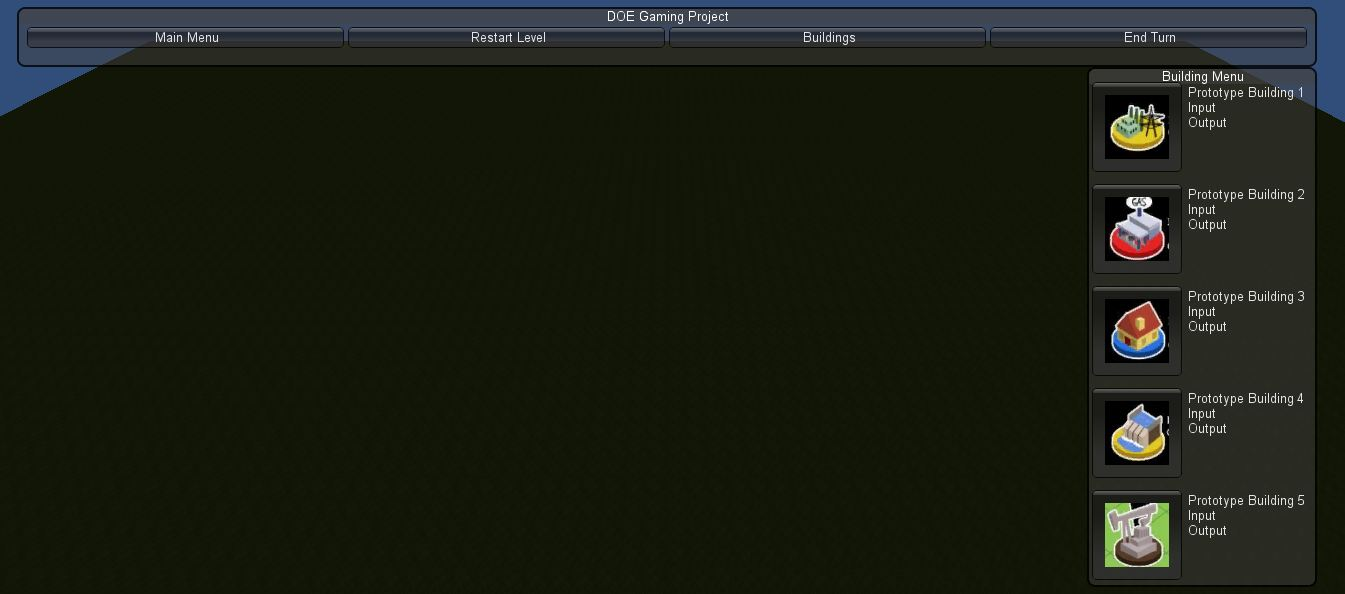
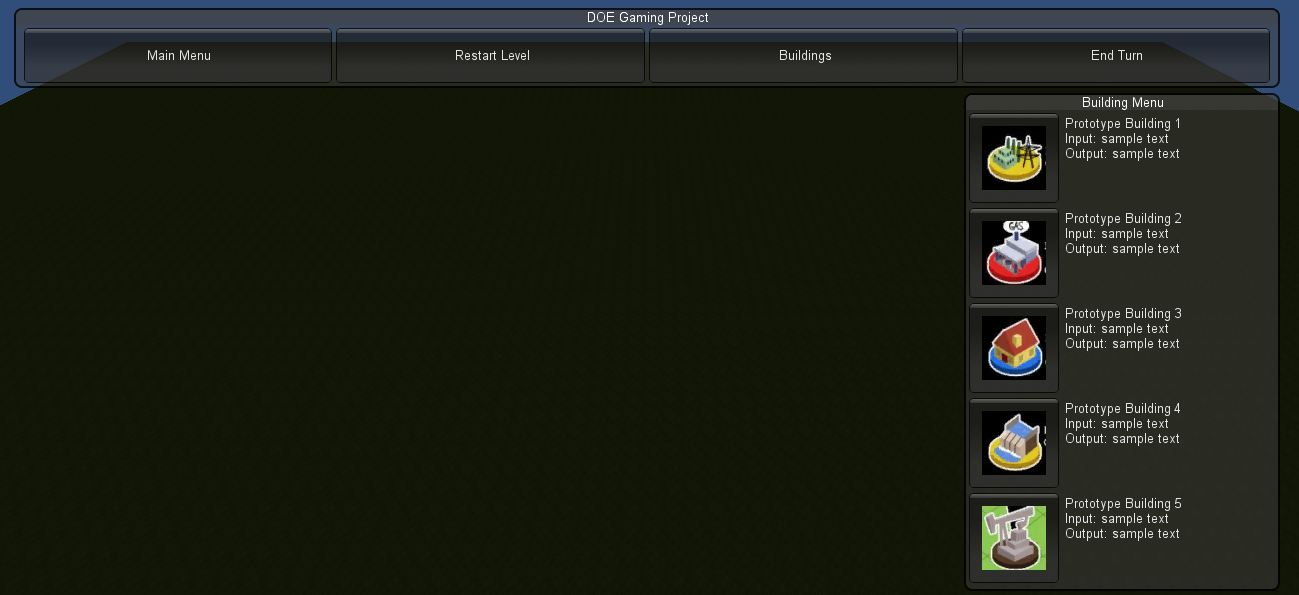
Updating toolBar.js script

Changed region(s): [[0.0, 0.0, 1.0, 1.0]]

diff --git a/Assets/Scripts/GUI Scripts/ToolBar.js b/Assets/Scripts/GUI Scripts/ToolBar.js
@@ -4,40 +4,51 @@ ToolBar.js
 Description: Sets up toolbar above along with building menu. 
 Used mouse click events for now which will be changed to 
 touch while deploying for mobile device.
+Tip: Click on Building menu button to toggle visibility of 
+building menu window.
 
 Author: Ajinkya Waghulde
 **********************************************************/
 
 
 //Variables
-var toolbarInt : int = -1;
-var buildingMenuInt : int = -1;
+private var toolbarInt : int = -1;
+private var buildingMenuInt : int = -1;
 var btnTexture1 : Texture; 
 var btnTexture2 : Texture;
 var btnTexture3 : Texture; 
 var btnTexture4 : Texture;
 var btnTexture5 : Texture; 
 
+private var showWindow : boolean = false;
+
 //need to replace text with GUI texture (if needed)
-var toolbarStrings : String[] = ["Main Menu", "Restart Level", "Buildings", "End Turn"];
-var buildingMenuStrings : String[] = ["Building1", "Building2", "Building3", "Building4", "Building5"];
+private var toolbarStrings : String[] = ["Main Menu", "Restart Level", "Buildings", "End Turn"];
+private var buildingMenuStrings : String[] = ["Building1", "Building2", "Building3", "Building4", "Building5"];
 
 //set for PC screen, need to change for iphone
-var toolbarWindow : Rect = Rect (30, 10, 1300, 60);
-var buildingMenuWindow : Rect = Rect (50, 100, 120, 500);
+private var toolbarWindow : Rect = Rect (50, 10, Screen.width - 100, 80);
+private var buildingMenuWindow : Rect //= Rect (0, 10, 250, 520);
+										= Rect (50 + (3*toolbarWindow.width/4), 
+											    15 + toolbarWindow.height, 
+											    toolbarWindow.width/4, 
+											    Screen.height - 100);
 
 function OnGUI() 
 {
 
+	//showWindow = false;
+
 	toolbarWindow = GUI.Window (0, toolbarWindow, ToolbarWindowFunc, "DOE Gaming Project");
-	buildingMenuWindow = GUI.Window (1, buildingMenuWindow, BuildingMenuFunc, "Building Menu");
 	
+	if(showWindow)
+		buildingMenuWindow = GUI.Window (1, buildingMenuWindow, BuildingMenuFunc, "Building Menu");
 	
 	if (!btnTexture1 || !btnTexture2 || !btnTexture3 || !btnTexture4 || !btnTexture5) {
         Debug.LogError("Missing button texture !");
         return;
     }
-		
+        						
 	switch(toolbarInt)
 	{
 		//Main menu
@@ -55,6 +66,7 @@ function OnGUI()
 		//Buildings menu
 		case 2:
 		Debug.Log("building menu");		
+		ToggleBuildingWindowVisibility();
 		toolbarInt = -1;
 		break;
 		
@@ -69,13 +81,10 @@ function OnGUI()
 }
 
 //Note: window id is 0 for toolbar
-function ToolbarWindowFunc (windowID : int) {
-        
-        toolbarInt = GUILayout.Toolbar (//new Rect(5, 20, toolbarWindow.width  - 10, toolbarWindow.height - 25), 
-        								toolbarInt, 
-        								toolbarStrings);
-        
-
+function ToolbarWindowFunc (windowID : int) {              
+        toolbarInt = GUI.Toolbar (Rect (10, 20, toolbarWindow.width - 20, toolbarWindow.height - 25), 
+        						  toolbarInt, 
+        						  toolbarStrings);
 }
 
 //Note: window id is 1 for building menu
@@ -86,20 +95,28 @@ function BuildingMenuFunc (windowID : int) {
         								buildingMenuStrings);
         */
         
-        
-        GUI.Button(Rect(5, 15, 90, 90),  btnTexture1);
-        GUI.Label(Rect(100, 15, 150, 90), "Prototype Building 1\nInput\nOutput");
+        //Note: Values hardcoded, will be set as per screen resolution later
+        GUI.Button(Rect(5, 20, 90, 90),  btnTexture1);
+        GUI.Label(Rect(100, 20, 150, 90), "Prototype Building 1\nInput: sample text\nOutput: sample text");
  
-        GUI.Button(Rect(5, 117, 90, 90), btnTexture2);
-        GUI.Label(Rect(100, 117, 150, 90), "Prototype Building 2\nInput\nOutput");
+        GUI.Button(Rect(5, 115, 90, 90), btnTexture2);
+        GUI.Label(Rect(100, 115, 150, 90), "Prototype Building 2\nInput: sample text\nOutput: sample text");
         
-        GUI.Button(Rect(5, 219, 90, 90), btnTexture3);
-        GUI.Label(Rect(100, 219, 150, 90), "Prototype Building 3\nInput\nOutput");
+        GUI.Button(Rect(5, 210, 90, 90), btnTexture3);
+        GUI.Label(Rect(100, 210, 150, 90), "Prototype Building 3\nInput: sample text\nOutput: sample text");
         
-        GUI.Button(Rect(5, 321, 90, 90), btnTexture4);
-        GUI.Label(Rect(100, 321, 150, 90), "Prototype Building 4\nInput\nOutput");
+        GUI.Button(Rect(5, 305, 90, 90), btnTexture4);
+        GUI.Label(Rect(100, 305, 150, 90), "Prototype Building 4\nInput: sample text\nOutput: sample text");
            
-        GUI.Button(Rect(5, 423, 90, 90), btnTexture5);
-        GUI.Label(Rect(100, 423, 150, 90), "Prototype Building 5\nInput\nOutput");
+        GUI.Button(Rect(5, 400, 90, 90), btnTexture5);
+        GUI.Label(Rect(100, 400, 150, 90), "Prototype Building 5\nInput: sample text\nOutput: sample text");
         
+}
+
+function ToggleBuildingWindowVisibility()
+{
+	if(showWindow == false)
+		showWindow = true;
+	else
+		showWindow = false;
 }
